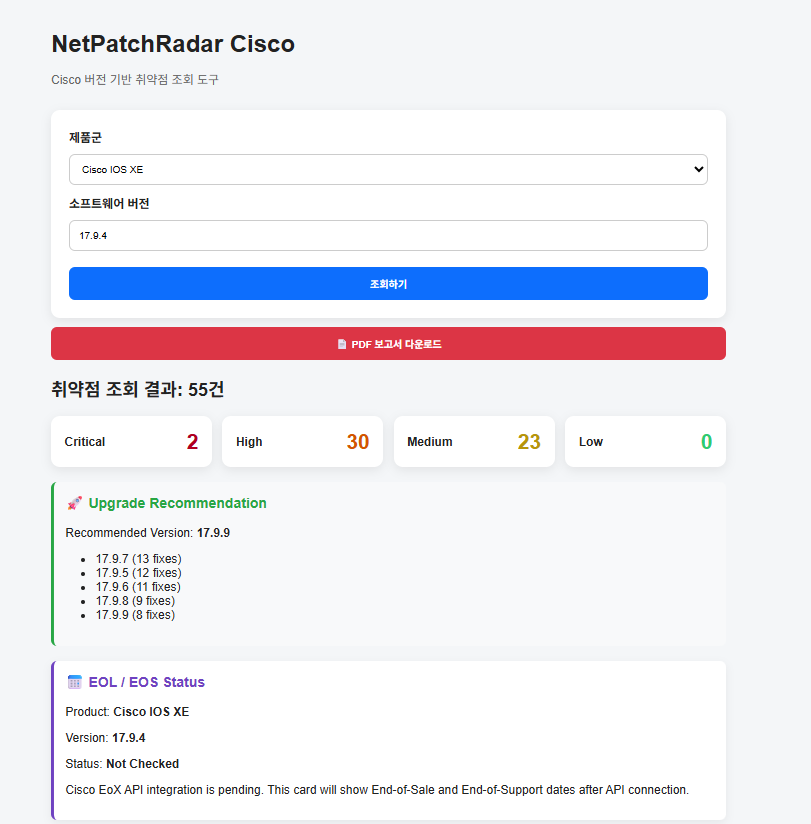
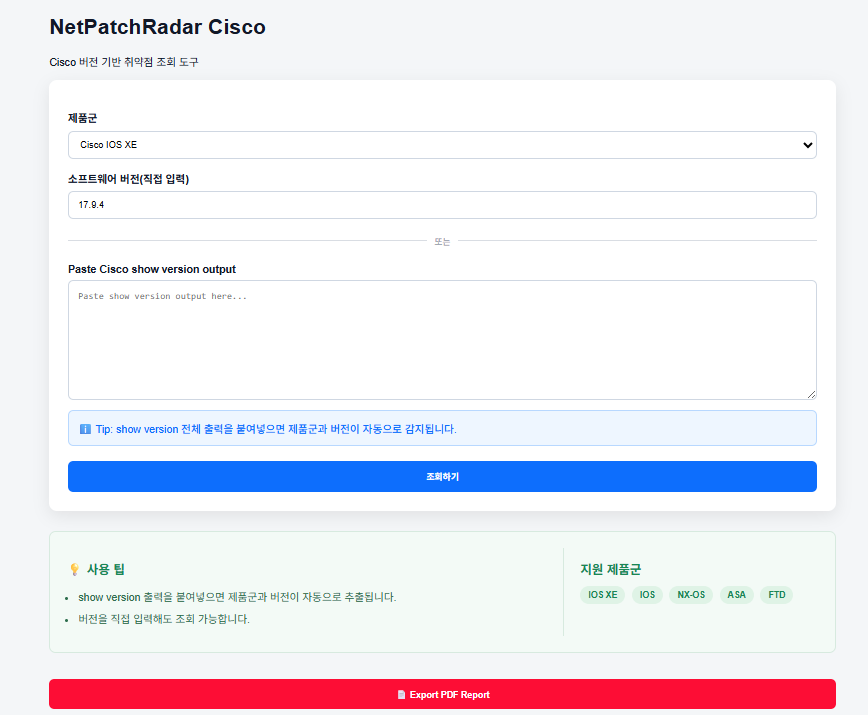
Update REAEME

diff --git a/templates/index.html b/templates/index.html
@@ -80,7 +80,7 @@
     </div>
      {% if advisories %}
         <div class="pdf-section">
-            <form action="/download_pdf" method="post">
+            <form action="{{ url_for('download_pdf') }}" method="post">
                 <input type="hidden" name="product_type" value="{{ selected_product }}">
                 <input type="hidden" name="version" value="{{ version }}">
                 <button type="submit" class="pdf-button">📄 Export PDF Report</button>

diff --git a/app.py b/app.py
@@ -143,7 +143,7 @@ def index():
     )
 
 @app.route("/report/pdf", methods=["POST"])
-def report_pdf():
+def download_pdf():
     selected_product = request.form.get("product_type", "iosxe")
     version = request.form.get("version", "").strip()
 

diff --git a/README.md b/README.md
@@ -40,6 +40,7 @@ Cisco Developer Portal: https://developer.cisco.com
 
 ![Dashboard](screenshots/dashboard.png)
 ![Dashboard](screenshots/dashboard1.png)
+![Dashboard](screenshots/dashboard2.png)
 
 ### PDF Report
 